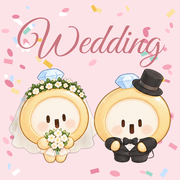
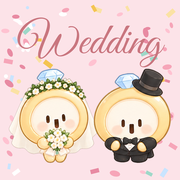
반지링 테두리 깔끔하게 다시 오림 (2배 해상도)
Claude-Session: https://claude.ai/code/session_011nUT2jvPTHRHkT69G7nQeK

diff --git a/assets/index-pwa-9rMMmm5c.js b/assets/index-pwa-9rMMmm5c.js
@@ -1,4 +1,4 @@
-(function(){let e=document.createElement(`link`).relList;if(e&&e.supports&&e.supports(`modulepreload`))return;for(let e of document.querySelectorAll(`link[rel="modulepreload"]`))n(e);new MutationObserver(e=>{for(let t of e)if(t.type===`childList`)for(let e of t.addedNodes)e.tagName===`LINK`&&e.rel===`modulepreload`&&n(e)}).observe(document,{childList:!0,subtree:!0});function t(e){let t={};return e.integrity&&(t.integrity=e.integrity),e.referrerPolicy&&(t.referrerPolicy=e.referrerPolicy),t.credentials=e.crossOrigin===`use-credentials`?`include`:e.crossOrigin===`anonymous`?`omit`:`same-origin`,t}function n(e){if(e.ep)return;e.ep=!0;let n=t(e);fetch(e.href,n)}})();var e={hi:new URL(`hi-DqPFY6NE.webp`,import.meta.url).href,cheer:new URL(`cheer-CB1USPvN.webp`,import.meta.url).href,sleep:new URL(`sleep-Bz2siBO9.webp`,import.meta.url).href,think:new URL(`think-BBrYYGbu.webp`,import.meta.url).href,bride:new URL(`bride-rRt6IPCX.webp`,import.meta.url).href,groom:new URL(`groom-C2p9HqSJ.webp`,import.meta.url).href,wink:new URL(`wink-1lthuHCA.webp`,import.meta.url).href},t=[{id:`mint`,name:`민트`,c:`#17A88A`,d:`#4FD1B2`,soft:`#E3F6F1`,dsoft:`#173A33`},{id:`coral`,name:`코랄`,c:`#EE7240`,d:`#FF9D6E`,soft:`#FDEEE6`,dsoft:`#43281C`},{id:`rose`,name:`로즈`,c:`#D45C7E`,d:`#F08DAA`,soft:`#FBEAEF`,dsoft:`#45263A`},{id:`blue`,name:`블루`,c:`#3E72EC`,d:`#7FA5FF`,soft:`#E8EFFD`,dsoft:`#1E2B4A`},{id:`lavender`,name:`라벤더`,c:`#7C62D6`,d:`#B3A0F5`,soft:`#EFEBFB`,dsoft:`#2E2747`},{id:`black`,name:`블랙`,c:`#26262B`,d:`#EDEDF0`,soft:`#EFEFF1`,dsoft:`#2C2C31`}],n=`wn-accent`;function r(){try{return localStorage.getItem(n)||`mint`}catch{return`mint`}}var i=()=>{let e=document.documentElement.dataset.theme;return e?e===`dark`:matchMedia(`(prefers-color-scheme: dark)`).matches};function a(a=r(),o=!1){let s=t.find(e=>e.id===a)||t[0],c=document.documentElement,l=i(),u=l?s.d:s.c;c.dataset.accent=s.id,c.style.setProperty(`--accent`,u),c.style.setProperty(`--accent-soft`,l?s.dsoft:s.soft),c.style.setProperty(`--on-accent`,l?`#111`:`#fff`),c.style.setProperty(`--grad`,u);for(let t in e)c.style.setProperty(`--m-`+t,`url("${e[t]}")`);if(o)try{localStorage.setItem(n,s.id)}catch{}let d=document.querySelector(`meta[name="theme-color"]:not([media])`)||Object.assign(document.head.appendChild(document.createElement(`meta`)),{name:`theme-color`});return d.content=l?`#121214`:`#FFFFFF`,s}try{matchMedia(`(prefers-color-scheme: dark)`).addEventListener(`change`,()=>a())}catch{}var o=(e,t=`mascot`)=>`<span class="${t} m-${e}" aria-hidden="true"></span>`,s=[`잘했어요!`,`하나 끝!`,`반짝반짝 해냈어요`,`결혼식에 한 걸음 더`,`오늘도 수고했어요`],c;function l(e,t=!1){document.querySelector(`.cheer`)?.remove(),clearTimeout(c);let n=document.createElement(`div`);n.className=`cheer`,n.setAttribute(`role`,`status`),n.innerHTML=`${o(`cheer`)}<b>${e||s[Math.floor(Math.random()*s.length)]}</b>`,document.body.appendChild(n),c=setTimeout(()=>n.remove(),t?2600:1900),g(t),v(t)}var u=(e,t)=>{try{let n=localStorage.getItem(e);return n===null?t:n===`1`}catch{return t}},d={get confetti(){return u(`wn-fx`,!0)},set confetti(e){try{localStorage.setItem(`wn-fx`,e?`1`:`0`)}catch{}},get sound(){return u(`wn-sound`,!0)},set sound(e){try{localStorage.setItem(`wn-sound`,e?`1`:`0`)}catch{}}},f=()=>matchMedia(`(prefers-reduced-motion: reduce)`).matches,p,m,h=[];function g(e=!1){if(!d.confetti||f())return;p||(p=document.createElement(`canvas`),p.className=`fx-canvas`,p.setAttribute(`aria-hidden`,`true`)),p.isConnected||document.body.appendChild(p);let t=Math.min(2,devicePixelRatio||1),n=innerWidth,r=innerHeight;p.width=n*t,p.height=r*t;let i=p.getContext(`2d`);i.setTransform(t,0,0,t,0,0);let a=[`#F6A5B8`,`#FFD1DC`,`#F4C451`,`#FFFFFF`,getComputedStyle(document.documentElement).getPropertyValue(`--accent`).trim()||`#17A88A`,`#C9E4FF`,`#FBE2A4`],o=e?150:70;for(let t=0;t<o;t++){let i=t%2==0,o=i?-10:n+10,s=r*(.72+Math.random()*.12),c=Math.PI/2*-1+(i?1:-1)*(.25+Math.random()*.55),l=(e?15:12)+Math.random()*(e?9:7),u=Math.random()<.38?`petal`:Math.random()<.5?`rect`:`dot`;h.push({x:o,y:s,vx:Math.cos(c)*l,vy:Math.sin(c)*l,r:Math.random()*Math.PI*2,vr:(Math.random()-.5)*.3,s:u===`petal`?7+Math.random()*6:4+Math.random()*4,c:u===`petal`?[`#F6A5B8`,`#FFD1DC`,`#FFC2D1`,`#FFFFFF`][t%4]:a[t%a.length],k:u,t:0,life:110+Math.random()*60,sw:Math.random()*6})}if(m)return;let s=()=>{i.clearRect(0,0,n,r),h=h.filter(e=>e.t<e.life&&e.y<r+40);for(let e of h)e.t++,e.vy+=.32,e.vx*=.985,e.vy*=.985,e.k===`petal`&&(e.vy=Math.min(e.vy,2.2),e.x+=Math.sin((e.t+e.sw*10)/12)*.9),e.x+=e.vx,e.y+=e.vy,e.r+=e.vr,i.save(),i.globalAlpha=Math.min(1,(e.life-e.t)/30),i.translate(e.x,e.y),i.rotate(e.r),i.fillStyle=e.c,e.k===`petal`?(i.beginPath(),i.ellipse(0,0,e.s,e.s*.55,0,0,Math.PI*2),i.fill(),i.fillStyle=`rgba(255,255,255,.5)`,i.beginPath(),i.ellipse(-e.s*.3,-e.s*.1,e.s*.35,e.s*.15,0,0,Math.PI*2),i.fill()):e.k===`rect`?(i.scale(1,Math.cos(e.t/5)),i.fillRect(-e.s/2,-e.s*.8,e.s,e.s*1.6)):(i.beginPath(),i.arc(0,0,e.s/2,0,Math.PI*2),i.fill()),e.c===`#FFFFFF`&&(i.strokeStyle=`rgba(0,0,0,.08)`,i.lineWidth=1,i.stroke()),i.restore();h.length?m=requestAnimationFrame(s):(m=null,i.clearRect(0,0,n,r),p.remove())};m=requestAnimationFrame(s)}var _;function v(e=!1){if(d.sound)try{_=_||new(window.AudioContext||window.webkitAudioContext),_.state===`suspended`&&_.resume();let t=_.currentTime+.01,n=e?[[523,0,.12],[659,.12,.12],[784,.24,.12],[1047,.38,.5]]:[[784,0,.1],[1047,.1,.3]],r=_.createGain();r.gain.value=.12,r.connect(_.destination);for(let[e,i,a]of n)for(let[n,o,s]of[[`triangle`,1,1],[`sine`,2,.3]]){let c=_.createOscillator(),l=_.createGain();c.type=n,c.frequency.value=e*o,l.gain.setValueAtTime(0,t+i),l.gain.linearRampToValueAtTime(s,t+i+.015),l.gain.exponentialRampToValueAtTime(.001,t+i+a+.25),c.connect(l),l.connect(r),c.start(t+i),c.stop(t+i+a+.3)}}catch{}}a();var y=[`cats`,`items`,`events`,`guests`,`teams`,`meta`],ee=`wedding-demo-v1`,b=e=>e==null?e:JSON.parse(JSON.stringify(e)),x=()=>{let e=``;for(let t of crypto.getRandomValues(new Uint8Array(20)))e+=`abcdefghijklmnopqrstuvwxyz0123456789`[t%36];return e},S=(e,t)=>Object.assign(Error(t||e),{code:e}),C=(e,t)=>e+`~`+t;async function w(){let e=window.claude,t=await(e?.use?.(`db`)??null),n=await(e?.use?.(`user`)??null),r=n?await n.id():null,i=t&&r?`cloud`:`local`,a=i===`cloud`?t.collection(`data/users/`+r):null,o=Object.fromEntries(y.map(e=>[e,new Map])),s=Object.fromEntries(y.map(e=>[e,new Set])),c=new Map,l=!1,u=[],d=(e,t)=>{let n=o[e].get(t);return{id:t,exists:!!n,data:()=>n?b(n):void 0,metadata:{fromCache:!1,hasPendingWrites:!1}}},f=e=>{let t=[...o[e].entries()].sort((e,t)=>e[0]<t[0]?-1:1).map(([e,t])=>({id:e,exists:!0,data:()=>b(t)}));return{docs:t,size:t.length,empty:!t.length,docChanges:()=>[]}},p=null,m=new Set;function h(e,t){m.add(e+`/`+(t??``)),!p&&(p=Promise.resolve().then(()=>{p=null;let e=[...m];m.clear();for(let t of new Set(e.map(e=>e.split(`/`)[0])))for(let e of s[t])try{e(f(t))}catch(e){console.error(e)}for(let t of e){let e=c.get(t);if(e){let[n,r]=t.split(`/`);for(let t of e)try{t(d(n,r))}catch(e){console.error(e)}}}}))}let g=()=>{try{localStorage.setItem(ee,JSON.stringify(Object.fromEntries(y.map(e=>[e,Object.fromEntries(o[e])]))))}catch{}},_=()=>{try{let e=JSON.parse(localStorage.getItem(ee)||`{}`);for(let t of y)for(let[n,r]of Object.entries(e[t]||{}))o[t].set(n,r)}catch{}},v=()=>{l=!0,u.splice(0).forEach(e=>e());for(let e of y)h(e)};async function w(e,t,n){if(i!==`cloud`)return g();try{let r=a.doc(C(e,t));n===void 0?await r.delete():await r.set({c:e,i:t,d:n})}catch(e){if(e?.code===`invalid_argument`||e?.code===`not_granted`||e?.code===`revoked`){i=`local`,g();return}throw S(`unavailable`,e?.message)}}async function T(e,t,n){if(!o[e])throw S(`invalid_argument`,`unknown collection `+e);let r=o[e].get(t);n===void 0?o[e].delete(t):o[e].set(t,n),h(e,t);try{await w(e,t,n)}catch(n){throw r===void 0?o[e].delete(t):o[e].set(t,r),h(e,t),n}}let te=(e,t)=>({id:t,path:e+`/`+t,async get(){return l||await new Promise(e=>u.push(e)),d(e,t)},set:n=>T(e,t,b(n)),update:n=>o[e].has(t)?T(e,t,{...o[e].get(t),...b(n)}):Promise.reject(S(`invalid_argument`)),delete:()=>T(e,t,void 0),onSnapshot(n){let r=e+`/`+t;return c.has(r)||c.set(r,new Set),c.get(r).add(n),l&&queueMicrotask(()=>n(d(e,t))),()=>c.get(r)?.delete(n)}}),ne=e=>({path:e,doc:t=>te(e,t||x()),async add(t){let n=x();return await T(e,n,b(t)),te(e,n)},async get(){return l||await new Promise(e=>u.push(e)),f(e)},onSnapshot(t){return s[e].add(t),l&&queueMicrotask(()=>t(f(e))),()=>s[e].delete(t)}});return{get mode(){return i},doc(e){let[t,n]=String(e).split(`/`);return te(t,n)},collection:e=>ne(e),newId:x,snapshotAll:()=>Object.fromEntries(y.map(e=>[e,Object.fromEntries(o[e])])),async bulkUpsert(e){for(let t of e)o[t.coll]?.set(t.id,b(t.data)),h(t.coll,t.id);if(i===`local`)return g();for(let t=0;t<e.length;t+=8)await Promise.all(e.slice(t,t+8).map(e=>w(e.coll,e.id,e.data)))},async clearAll(){let e=[];for(let t of y)for(let n of o[t].keys())e.push([t,n]);for(let e of y)o[e].clear();if(i===`local`)try{localStorage.removeItem(ee)}catch{}else for(let t=0;t<e.length;t+=8)await Promise.all(e.slice(t,t+8).map(([e,t])=>a.doc(C(e,t)).delete().catch(()=>{})))},start(){return new Promise(e=>{if(i===`local`)return _(),v(),e();let t=!0;a.onSnapshot(n=>{for(let e of y)o[e].clear();for(let e of n.docs){let t=e.data();t&&o[t.c]&&o[t.c].set(t.i,t.d)}if(t)t=!1,v(),e();else for(let e of y)h(e)},()=>{i=`local`,_(),t&&(t=!1,v(),e())}),setTimeout(()=>{t&&(t=!1,i=`local`,_(),v(),e())},12e3)})}}}var T=[{id:`hall`,name:`웨딩홀`,desc:`전문 예식장 · 가장 일반적`,search:`웨딩홀`},{id:`hotel`,name:`호텔`,desc:`호텔 연회장 · 격식 있는 분위기`,search:`호텔 웨딩`},{id:`small`,name:`스몰·하우스`,desc:`100명 이하 · 공간 대관`,search:`스몰웨딩`},{id:`outdoor`,name:`야외·가든`,desc:`정원·루프탑 · 날씨 대비 필요`,search:`야외웨딩`},{id:`church`,name:`성당·교회`,desc:`종교 예식 · 피로연 별도`,search:`성당`}],te=[`웨딩홀`,`호텔 웨딩`,`스몰웨딩`,`하우스웨딩`,`야외웨딩`,`성당`,`교회`,`상견례 식당`],ne=[`서울`,`경기`,`인천`,`부산`,`대구`,`광주`,`대전`,`울산`,`세종`,`강원`,`충북`,`충남`,`전북`,`전남`,`경북`,`경남`,`제주`],E={hall:{hall:45,sdm:12,photo:5,honeymoon:20,guestmgmt:5,etc:13},hotel:{hall:58,sdm:10,photo:4,honeymoon:15,guestmgmt:4,etc:9},small:{hall:30,sdm:15,photo:10,honeymoon:25,guestmgmt:5,etc:15},outdoor:{hall:38,sdm:13,photo:9,honeymoon:22,guestmgmt:5,etc:13},church:{hall:35,sdm:14,photo:7,honeymoon:24,guestmgmt:5,etc:15}},D={hall:`웨딩홀`,hotel:`호텔 연회장`,small:`스몰웨딩 공간`,outdoor:`야외 웨딩 장소`,church:`성당·교회 혼배`},O=[{k:`parents`,t:`양가 부모님께 인사`,c:`etc`,off:420},{k:`meet-place`,t:`상견례 식당`,c:`etc`,off:410,v:1},{k:`meet`,t:`상견례`,c:`etc`,off:390,why:`보통 상견례 후 예식장을 잡아요. 식장을 먼저 잡는 커플도 있어요`},{k:`scale`,t:`예산·하객 규모 정하기`,c:`etc`,off:380,why:`예식장 크기와 식대가 여기서 정해져요`},{k:`planner`,t:`웨딩플래너`,c:`etc`,off:370,v:1,planner:!0,why:`플래너 제휴로 스드메·예복·한복 할인을 받을 수 있어요`},{k:`fair`,t:`웨딩박람회 다녀오기`,c:`hall`,off:370,planner:!1,why:`예식장·스드메 견적을 하루에 비교하기 좋아요`},{k:`church-ask`,t:`본당에 혼배 날짜 문의`,c:`hall`,off:400,only:[`church`],why:`인기 날짜는 빨리 차고, 교리 일정도 같이 확인해야 해요`},{k:`tour`,t:`예식장 투어 (3곳 이상)`,c:`hall`,off:350,skip:[`church`],why:`식대·보증인원·대관료·주차를 같은 기준으로 비교해요`},{k:`venue`,t:null,c:`hall`,off:330,v:1,why:`계약서에 식대·보증인원·위약금 조건을 꼭 적어 두세요`},{k:`reception`,t:`피로연 장소`,c:`hall`,off:300,v:1,only:[`church`],why:`혼배 후 식사 장소는 따로 예약해야 해요`},{k:`hotel-guar`,t:`보증인원·식대 협의`,c:`hall`,off:300,only:[`hotel`],why:`호텔은 보증인원이 크고 식대가 높아 협의 폭이 커요`},{k:`catering`,t:`케이터링 업체`,c:`hall`,off:180,v:1,only:[`small`,`outdoor`],why:`공간 대관이면 식사를 따로 준비해야 해요`},{k:`contract-check`,t:`계약서 위약금·추가금 조항 확인`,c:`etc`,off:320,planner:!1,why:`플래너 없이 계약할 땐 직접 챙겨야 해요`},{k:`honeymoon-pick`,t:`신혼여행지 결정`,c:`honeymoon`,off:300},{k:`sdm-quote`,t:`스드메 견적 3곳 비교`,c:`sdm`,off:300,planner:!1,why:`드레스 피팅비·헬퍼비 같은 추가금까지 비교해요`},{k:`sdm`,t:`스드메 패키지`,c:`sdm`,off:270,v:1},{k:`studio`,t:`웨딩촬영 스튜디오`,c:`photo`,off:240,v:1,skip:[`small`]},{k:`snap`,t:`본식 스냅`,c:`hall`,off:240,v:1},{k:`dvd`,t:`본식 DVD`,c:`hall`,off:240,v:1,skip:[`small`]},{k:`house`,t:`신혼집 알아보기`,c:`etc`,off:240},{k:`dress-tour`,t:`드레스 투어`,c:`sdm`,off:210},{k:`flight`,t:`항공권`,c:`honeymoon`,off:180,v:1},{k:`ring`,t:`웨딩링`,c:`etc`,off:180,v:1},{k:`gift-scope`,t:`예물·예단 범위 정하기`,c:`etc`,off:180},{k:`house-contract`,t:`신혼집 계약`,c:`etc`,off:180},{k:`stay`,t:`숙소`,c:`honeymoon`,off:150,v:1},{k:`passport`,t:`여권 유효기간 확인`,c:`honeymoon`,off:150},{k:`hanbok`,t:`혼주 한복`,c:`etc`,off:180,v:1},{k:`class`,t:`혼인 교리 수강`,c:`etc`,off:150,only:[`church`],why:`혼배 전에 이수해야 해요. 본당 일정을 확인하세요`},{k:`suit`,t:`예복`,c:`sdm`,off:180,v:1},{k:`skin`,t:`피부·체형 관리 시작`,c:`sdm`,off:120},{k:`appliance`,t:`신혼 가전·가구`,c:`etc`,off:120,v:1,why:`입주일에 맞춰 배송 날짜를 잡아요. 혼수 박람회·가전 패키지 할인도 비교해 보세요`},{k:`parents-hm`,t:`혼주 헤어·메이크업`,c:`hall`,off:120,v:1},{k:`helper`,t:`본식 헬퍼`,c:`hall`,off:120,v:1},{k:`flower`,t:`꽃장식 상담`,c:`hall`,off:120,v:1,only:[`hotel`,`small`,`outdoor`],why:`웨딩홀과 달리 꽃장식이 별도인 경우가 많아요`},{k:`rain`,t:`우천 대비 플랜 (실내 대체 공간)`,c:`hall`,off:120,only:[`outdoor`],why:`비 예보가 나와도 바로 옮길 수 있게 미리 정해 둬요`},{k:`guests`,t:`하객리스트 작성 및 확정`,c:`guestmgmt`,off:90},{k:`invite`,t:`청첩장`,c:`guestmgmt`,off:90,v:1},{k:`mc`,t:`사회·축가 섭외`,c:`hall`,off:90},{k:`decor`,t:`공간 데코·꽃`,c:`hall`,off:90,v:1,only:[`small`],why:`대관 공간은 분위기를 직접 꾸며야 해요`},{k:`rental`,t:`의자·음향·조명 대여`,c:`hall`,off:90,v:1,only:[`outdoor`,`small`]},{k:`mobile-invite`,t:`모바일 청첩장`,c:`guestmgmt`,off:60,v:1},{k:`second-dress`,t:`2부 드레스`,c:`sdm`,off:60,v:1,why:`대여·구매 중 고르고, 본식 드레스 셀렉 때 같이 보면 편해요`},{k:`video`,t:`식전·식중 영상`,c:`hall`,off:60,v:1,why:`직접 만들거나 업체에 맡겨요. 예식장에 재생 파일 형식·길이를 꼭 확인하세요`},{k:`pyebaek`,t:`폐백 준비`,c:`hall`,off:60,v:1,only:[`hall`,`hotel`],why:`폐백실 이용 여부와 폐백 음식·이바지 업체를 양가와 정해요`},{k:`dress-select`,t:`본식 드레스 셀렉`,c:`sdm`,off:60},{k:`bus`,t:`하객 버스 대절`,c:`guestmgmt`,off:60,v:1,minGuests:150,why:`지방 하객이 많으면 미리 예약해요`},{k:`church-docs`,t:`혼배 서류 준비`,c:`etc`,off:60,only:[`church`],why:`세례증명서 등 필요한 서류를 본당에 확인해요`},{k:`route`,t:`하객 동선·주차 확인`,c:`hall`,off:60,only:[`outdoor`,`small`]},{k:`invite-meet`,t:`청첩장 모임·발송`,c:`guestmgmt`,off:45},{k:`fitting`,t:`드레스 가봉`,c:`sdm`,off:35,why:`본식 드레스를 몸에 맞게 수선해요. 신발·속옷도 그날 신고 가요`},{k:`order`,t:`식순·입장 순서 확정`,c:`hall`,off:30},{k:`bouquet`,t:`부케·부토니에`,c:`hall`,off:30,v:1},{k:`return-gift`,t:`답례품`,c:`guestmgmt`,off:30,v:1},{k:`seat`,t:`하객 좌석 배치도`,c:`guestmgmt`,off:21,only:[`small`,`hotel`]},{k:`insurance`,t:`여행자보험 가입`,c:`honeymoon`,off:21},{k:`exchange`,t:`환전`,c:`honeymoon`,off:14},{k:`final`,t:`예식장 최종 미팅`,c:`hall`,off:14},{k:`bag`,t:`가방순이 섭외`,c:`hall`,off:14,skip:[`small`]},{k:`bus-notice`,t:`하객 버스 탑승 안내`,c:`guestmgmt`,off:7,minGuests:150},{k:`dayof`,t:`당일 준비물 챙기기`,c:`hall`,off:3},{k:`register`,t:`혼인신고`,c:`etc`,off:-14},{k:`thanks`,t:`감사 인사 연락`,c:`guestmgmt`,off:-7}],re=[[`12개월 이상 전`,365,1e9],[`6~12개월 전`,180,364],[`3~6개월 전`,90,179],[`1~3개월 전`,30,89],[`한 달 이내`,7,29],[`마지막 주`,0,6],[`결혼식 이후`,-1e9,-1]],k=e=>(re.find(([,t,n])=>e>=t&&e<=n)||re[0])[0],A=e=>e.getFullYear()+`-`+String(e.getMonth()+1).padStart(2,`0`)+`-`+String(e.getDate()).padStart(2,`0`);function j(e={}){return{style:T.some(t=>t.id===e.style)?e.style:`hall`,planner:!!e.planner,guests:Math.max(0,Math.round(+e.guests||0)),budget:Math.max(0,Math.round(+e.budget||0)),sido:e.sido||``,sigungu:(e.sigungu||``).trim(),date:e.date||``}}function ie(e,t=A(new Date)){let n=j(e),r=[];for(let e of O){if(e.only&&!e.only.includes(n.style)||e.skip&&e.skip.includes(n.style)||e.planner===!0&&!n.planner||e.planner===!1&&n.planner||e.minGuests&&n.guests&&n.guests<e.minGuests)continue;let i=e.k===`venue`?D[n.style]:e.t,a=``,o=!1;if(n.date){let r=new Date(n.date+`T00:00:00`);r.setDate(r.getDate()-e.off),a=A(r),a<t&&e.off>0&&(o=!0,a=t)}r.push({key:e.k,title:i,cat:e.c,vendor:!!e.v,off:e.off,phase:k(e.off),due:a,late:o,why:e.why||``})}return r}function ae(e){let t=j(e);if(!t.budget)return null;let n=E[t.style],r={},i=0,a=Object.keys(n);return a.forEach((e,o)=>{let s=o===a.length-1?t.budget-i:Math.round(t.budget*n[e]/100/1e5)*1e5;r[e]=Math.max(0,s),i+=r[e]}),r}var oe=e=>(T.find(t=>t.id===e)||T[0]).name,se=e=>(T.find(t=>t.id===e)||T[0]).search,ce=e=>[e?.sido,e?.sigungu].filter(Boolean).join(` `);function le(e){return{title:e.title,cat:e.cat,status:`시작 전`,due:e.due,deposit:0,balance:0,payDate:``,note:e.why,balancePaid:!1,rkey:e.key,...e.vendor?{kind:`vendor`}:{}}}var ue=`한국소비자원 참가격 결혼서비스 통계 (2026년 8월 기준)`,M={gangnam:{label:`서울 강남`,meal:88e3,hall:758e4,decor:226e4,sdm:387e4},seoul:{label:`서울`,meal:8e4,hall:63e5,decor:0,sdm:35e5},metro:{label:`경기·인천`,meal:6e4,hall:35e5,decor:0,sdm:298e4},nonmetro:{label:`비수도권`,meal:6e4,hall:274e4,decor:18e4,sdm:284e4}};function de(e){return e?.sido===`서울`?/강남/.test(e.sigungu||``)?`gangnam`:`seoul`:e?.sido===`경기`||e?.sido===`인천`?`metro`:e?.sido?`nonmetro`:`metro`}var N={hall:200,hotel:200,small:70,outdoor:120,church:150};function fe(e){let t=j(e),n=de(t),r=M[n],i=t.guests||N[t.style],a=t.style===`hotel`?119e3:t.style===`small`||t.style===`church`?62e3:r.meal,o=[];o.push({key:`meal`,label:`식대 ${i}명 × ${(a/1e4).toLocaleString(`ko-KR`)}만 원`,amount:i*a,basis:t.style===`hotel`?`코스식 전국 평균`:t.style===`small`||t.style===`church`?`뷔페식 전국 평균`:`${r.label} 1인당 식대 중간값`}),t.style===`church`?o.push({key:`hall`,label:`성당·교회 사용료`,amount:0,basis:`본당·교회마다 달라서 직접 확인해 주세요`}):o.push({key:`hall`,label:t.style===`small`?`공간 대관료`:`대관료`,amount:r.hall,basis:`${r.label} 기준`}),r.decor&&o.push({key:`decor`,label:`기본 장식비`,amount:r.decor,basis:`${r.label} 기준`}),o.push({key:`sdm`,label:`스드메 (스튜디오·드레스·메이크업)`,amount:r.sdm,basis:`${{gangnam:`강남`,seoul:`서울 중간값`,metro:`전국 중간값`,nonmetro:`비수도권`}[n]} 기준`});let s=o.reduce((e,t)=>e+t.amount,0),c=o.filter(e=>e.key!==`sdm`).reduce((e,t)=>e+t.amount,0);return{tier:n,tierLabel:r.label,guests:i,meal:a,lines:o,total:s,budgets:{hall:c,sdm:r.sdm},source:ue,note:`신혼여행·예물·한복·청첩장 등은 공식 통계가 없어 빠져 있어요. 견적을 받으면 예산 탭에서 채워 주세요.`}}var pe=[[`hall`,`예식장`],[`sdm`,`스드메`],[`photo`,`웨딩촬영`],[`honeymoon`,`신혼여행`],[`guestmgmt`,`하객관리`],[`etc`,`기타`],[`extra`,`예외항목`]];function P({p1:e,p2:t,date:n,time:r,place:i,profile:a}){let o=j({...a||{},date:n}),s=ae(o)||fe(o).budgets,c=[];pe.forEach(([e,t],n)=>c.push({coll:`cats`,id:e,data:{name:t,budget:s[e]||0,order:n+1}}));for(let e of ie(o))c.push({coll:`items`,id:`r-`+e.key,data:le(e)});if(n){let e=new Date(n+`T`+(r||`00:00`)+`:00`).toISOString();c.push({coll:`events`,id:`wedding`,data:{name:`결혼식`,at:e,allDay:!r,place:i||``,status:`시작 전`}})}return c.push({coll:`meta`,id:`settings`,data:{p1:e,p2:t,mealPrice:fe(o).meal,minGuests:o.guests||0,profile:{...o,date:void 0}}}),c}var F=`한국소비자원 참가격 결혼서비스 통계 (2026년 8월, 중간값)`,I=[{id:`venue`,match:/웨딩홀|예식장|식장|연회장|혼배|대관/,keys:[`venue`,`tour`],name:`예식장`,price:[`대관료 전국 350만 · 서울 630만 원`,`1인당 식대 전국 6만 · 서울 8만 원`,`최소 보증인원 보통 200명`,`기본 장식비 평균 77만 원`],extras:[[`생화 꽃장식`,`전국 256만 · 서울 500만 원`],[`본식 촬영 (예식장 연계)`,`전국 76만 · 서울 85만 원`],[`본식 원판 사진`,`50만 원`],[`웨딩케이크`,`전국 38만 · 서울 44만 원`],[`보증인원 미달`,`안 온 인원만큼 식대를 그대로 내요`],[`성수기 할증`,`3~6월, 9~12월은 비수기보다 비싼 편이에요`]],tip:`견적 받을 때 '식대 × 보증인원 + 대관료 + 장식비'를 같은 기준으로 맞춰 비교하세요. 생화 장식·본식 도우미가 필수인 곳도 있어요.`},{id:`sdm`,match:/스드메/,keys:[`sdm`,`sdm-quote`],name:`스드메 (스튜디오·드레스·메이크업)`,price:[`스드메 패키지 전국 298만 · 서울 350만 원`,`드메(촬영 빼고) 전국 170만 · 서울 180만 원`],extras:[[`스튜디오 원본 구매`,`전국 30만 · 서울 39만 원`],[`메이크업 얼리스타트`,`14만 원`],[`드레스 퍼스트웨어`,`새 드레스를 처음 입는 옵션, 업체마다 달라요`],[`드레스 헬퍼(이모님)`,`패키지에 빠져 있는 경우가 많아요`],[`피팅비`,`드레스 투어 때 업체당 받는 곳이 있어요`]],tip:`패키지 가격만 보지 말고 원본·수정·헬퍼·얼리스타트가 포함인지 계약서에 적어 두세요.`},{id:`studio`,match:/스튜디오|웨딩촬영/,keys:[`studio`],name:`웨딩촬영 스튜디오`,price:[`스튜디오 기본 전국 139만 · 서울 150만 원`],extras:[[`원본 구매`,`전국 30만 · 서울 39만 원`],[`얼리스타트`,`전국 5만 · 서울 8만 원`],[`수정본·앨범 페이지 추가`,`장당·페이지당 추가금이 붙어요`]],tip:`원본 포함 여부와 수정본 장수를 먼저 확인하세요.`},{id:`dress`,match:/드레스(?! 가봉)|셀렉/,keys:[`dress-tour`,`dress-select`,`second-dress`],name:`드레스`,price:[`드레스 기본 전국 160만 · 서울 172만 원 (본식 1벌 + 촬영용)`],extras:[[`퍼스트웨어`,`새 드레스를 처음 입는 옵션`],[`헬퍼(이모님)`,`본식 날 드레스 도와주는 분, 별도인 경우가 많아요`],[`피팅비`,`투어 때 업체당 받는 곳이 있어요`],[`2부 드레스`,`패키지에 없으면 따로 대여해요`]],tip:`투어 전 피팅비가 있는지, 본식 드레스 등급(라인)별 추가금이 있는지 물어보세요.`},{id:`makeup`,match:/(?<!혼주 헤어·)메이크업/,keys:[],name:`메이크업`,price:[`메이크업 기본 전국 81만 · 서울 96만 원`],extras:[[`얼리스타트`,`이른 아침 시작, 14만 원`],[`혼주·가족 메이크업`,`보통 별도 비용이에요`]],tip:`예식 시간이 이르면 얼리스타트비가 붙어요.`},{id:`snap`,match:/스냅|DVD|영상/,keys:[`snap`,`dvd`,`video`],name:`본식 촬영`,price:[`참고: 예식장 연계 본식 촬영 전국 76만 · 서울 85만 원`],extras:[[`원본 전달`,`포함인지 확인하세요`],[`작가 추가(2인)`,`추가 비용이 붙는 경우가 많아요`],[`출장비`,`예식장이 멀면 붙을 수 있어요`]],tip:`외부 스냅을 쓰면 예식장에 외부 촬영 허용 여부를 먼저 확인하세요.`},{id:`helper`,match:/헬퍼/,keys:[`helper`],name:`본식 헬퍼`,extras:[[`추가 시간`,`2부·폐백까지 하면 시간 추가금이 붙을 수 있어요`],[`교통비`,`따로 받는 곳이 있어요`]],tip:`공식 통계가 없어요. 스드메 패키지 포함 여부부터 확인하세요.`},{id:`invite`,match:/청첩장/,keys:[`invite`,`mobile-invite`],name:`청첩장`,extras:[[`추가 인쇄`,`모자라서 다시 찍으면 단가가 비싸요`],[`봉투·스티커·식권`,`별도인 경우가 있어요`]],tip:`공식 통계가 없어요. 하객 수보다 10~20% 넉넉히 주문하는 커플이 많아요.`},{id:`hanbok`,match:/한복/,keys:[`hanbok`],name:`한복`,extras:[[`대여 vs 맞춤`,`가격 차이가 커요`],[`소품(노리개·신발 등)`,`별도인 경우가 있어요`]],tip:`공식 통계가 없어요. 2~3곳 견적을 비교해 보세요.`},{id:`suit`,match:/예복|양복|턱시도/,keys:[`suit`],name:`예복`,extras:[[`수선·가봉`,`맞춤이면 가봉 횟수를 확인하세요`],[`셔츠·구두·타이`,`패키지 포함인지 확인하세요`]],tip:`공식 통계가 없어요. 대여·맞춤 중 먼저 정하면 비교가 쉬워요.`},{id:`ring`,match:/웨딩링|반지|예물/,keys:[`ring`],name:`웨딩링·예물`,extras:[[`각인·사이즈 조정`,`무료인지 확인하세요`],[`금 시세`,`시세에 따라 가격이 바뀌어요`]],tip:`공식 통계가 없어요.`},{id:`honeymoon`,match:/신혼여행|항공|숙소/,keys:[`flight`,`stay`,`honeymoon-pick`],name:`신혼여행`,extras:[[`유류할증료`,`항공권에 따로 붙어요`],[`현지 비용`,`리조트세·팁·식비를 따로 잡아 두세요`]],tip:`공식 통계가 없어요.`}],me=[[`스드메`,`스튜디오(웨딩촬영)·드레스·메이크업을 묶은 패키지`],[`드메`,`웨딩촬영을 빼고 드레스·메이크업만 묶은 패키지`],[`대관료`,`예식장 홀을 빌리는 비용. 식대와 따로 받아요`],[`식대`,`하객 1인당 식사 비용. 예식 비용에서 가장 큰 부분이에요`],[`보증인원`,`예식장과 약속한 최소 식사 인원. 덜 와도 이 인원만큼 식대를 내요`],[`기본 장식비`,`꽃·조명 등 예식장 기본 연출 비용`],[`생화 장식`,`조화 대신 생화로 꾸미는 옵션. 추가금이 커요`],[`원본`,`웨딩촬영에서 찍은 사진 파일 전체. 따로 사야 하는 경우가 많아요`],[`수정본`,`보정(포토샵)한 사진. 장수가 정해져 있고 추가는 유료예요`],[`원판`,`본식 날 가족·친구와 찍는 단체 사진`],[`얼리스타트`,`이른 아침에 메이크업·촬영을 시작할 때 붙는 추가금`],[`퍼스트웨어`,`아무도 입지 않은 새 드레스를 처음 입는 옵션`],[`헬퍼`,`본식 날 드레스·소품을 도와주는 분. '이모님'이라고도 해요`],[`피팅비`,`드레스 투어 때 입어 보는 데 받는 비용`],[`셀렉`,`여러 드레스 중 본식·촬영에 입을 드레스를 고르는 날`],[`가봉`,`고른 드레스·예복을 몸에 맞게 수선하는 것`],[`혼주`,`신랑·신부의 부모님`],[`폐백`,`예식 후 신부가 시부모님과 가족께 인사드리는 전통 의식`],[`이바지`,`신부 집에서 신랑 집으로 보내는 음식`],[`가방순이`,`본식 날 신부 가방(축의금 등)을 챙겨 주는 친구`],[`부토니에`,`신랑 가슴에 꽂는 작은 꽃 장식`],[`가계약`,`정식 계약 전 소액으로 날짜·조건을 잡아 두는 것. 환불 조건을 꼭 확인하세요`],[`계약금·잔금`,`계약할 때 일부(계약금)를 내고, 나머지(잔금)는 보통 예식 전후에 내요`],[`위약금`,`계약을 취소·변경할 때 내는 돈. 시기별 비율을 계약서에서 확인하세요`],[`성수기`,`결혼식이 몰리는 3~6월, 9~12월. 비수기보다 비싼 편이에요`],[`답례품`,`하객에게 드리는 감사 선물`]];function he(e){let t=`${e.title||``}`,n=I.find(t=>e.rkey&&t.keys.includes(e.rkey))||I.find(e=>e.match.test(t)),r=`${e.title||``} ${e.note||``} ${n?n.extras.map(e=>e[0]).join(` `):``}`,i=me.filter(([e])=>e.split(`·`).some(e=>r.includes(e)));return n||i.length?{p:n,terms:i}:null}var L=e=>String(e??``).replace(/[&<>"]/g,e=>({"&":`&amp;`,"<":`&lt;`,">":`&gt;`,'"':`&quot;`})[e]);function ge(e){let t=he(e);if(!t)return``;let{p:n,terms:r}=t;return`<details class="gd"><summary><span class="gd-ic">💡</span><b>${n?`${L(n.name)} 알아두기`:`용어 알아두기`}</b><span class="gd-more">펼치기</span></summary>
+(function(){let e=document.createElement(`link`).relList;if(e&&e.supports&&e.supports(`modulepreload`))return;for(let e of document.querySelectorAll(`link[rel="modulepreload"]`))n(e);new MutationObserver(e=>{for(let t of e)if(t.type===`childList`)for(let e of t.addedNodes)e.tagName===`LINK`&&e.rel===`modulepreload`&&n(e)}).observe(document,{childList:!0,subtree:!0});function t(e){let t={};return e.integrity&&(t.integrity=e.integrity),e.referrerPolicy&&(t.referrerPolicy=e.referrerPolicy),t.credentials=e.crossOrigin===`use-credentials`?`include`:e.crossOrigin===`anonymous`?`omit`:`same-origin`,t}function n(e){if(e.ep)return;e.ep=!0;let n=t(e);fetch(e.href,n)}})();var e={hi:new URL(`hi-C0L3GarV.webp`,import.meta.url).href,cheer:new URL(`cheer-CD63wie2.webp`,import.meta.url).href,sleep:new URL(`sleep-D71vsldj.webp`,import.meta.url).href,think:new URL(`think-BoRCwsyP.webp`,import.meta.url).href,bride:new URL(`bride-D_coJ25t.webp`,import.meta.url).href,groom:new URL(`groom-CFcrKK7L.webp`,import.meta.url).href,wink:new URL(`wink-CVKq8aYZ.webp`,import.meta.url).href},t=[{id:`mint`,name:`민트`,c:`#17A88A`,d:`#4FD1B2`,soft:`#E3F6F1`,dsoft:`#173A33`},{id:`coral`,name:`코랄`,c:`#EE7240`,d:`#FF9D6E`,soft:`#FDEEE6`,dsoft:`#43281C`},{id:`rose`,name:`로즈`,c:`#D45C7E`,d:`#F08DAA`,soft:`#FBEAEF`,dsoft:`#45263A`},{id:`blue`,name:`블루`,c:`#3E72EC`,d:`#7FA5FF`,soft:`#E8EFFD`,dsoft:`#1E2B4A`},{id:`lavender`,name:`라벤더`,c:`#7C62D6`,d:`#B3A0F5`,soft:`#EFEBFB`,dsoft:`#2E2747`},{id:`black`,name:`블랙`,c:`#26262B`,d:`#EDEDF0`,soft:`#EFEFF1`,dsoft:`#2C2C31`}],n=`wn-accent`;function r(){try{return localStorage.getItem(n)||`mint`}catch{return`mint`}}var i=()=>{let e=document.documentElement.dataset.theme;return e?e===`dark`:matchMedia(`(prefers-color-scheme: dark)`).matches};function a(a=r(),o=!1){let s=t.find(e=>e.id===a)||t[0],c=document.documentElement,l=i(),u=l?s.d:s.c;c.dataset.accent=s.id,c.style.setProperty(`--accent`,u),c.style.setProperty(`--accent-soft`,l?s.dsoft:s.soft),c.style.setProperty(`--on-accent`,l?`#111`:`#fff`),c.style.setProperty(`--grad`,u);for(let t in e)c.style.setProperty(`--m-`+t,`url("${e[t]}")`);if(o)try{localStorage.setItem(n,s.id)}catch{}let d=document.querySelector(`meta[name="theme-color"]:not([media])`)||Object.assign(document.head.appendChild(document.createElement(`meta`)),{name:`theme-color`});return d.content=l?`#121214`:`#FFFFFF`,s}try{matchMedia(`(prefers-color-scheme: dark)`).addEventListener(`change`,()=>a())}catch{}var o=(e,t=`mascot`)=>`<span class="${t} m-${e}" aria-hidden="true"></span>`,s=[`잘했어요!`,`하나 끝!`,`반짝반짝 해냈어요`,`결혼식에 한 걸음 더`,`오늘도 수고했어요`],c;function l(e,t=!1){document.querySelector(`.cheer`)?.remove(),clearTimeout(c);let n=document.createElement(`div`);n.className=`cheer`,n.setAttribute(`role`,`status`),n.innerHTML=`${o(`cheer`)}<b>${e||s[Math.floor(Math.random()*s.length)]}</b>`,document.body.appendChild(n),c=setTimeout(()=>n.remove(),t?2600:1900),g(t),v(t)}var u=(e,t)=>{try{let n=localStorage.getItem(e);return n===null?t:n===`1`}catch{return t}},d={get confetti(){return u(`wn-fx`,!0)},set confetti(e){try{localStorage.setItem(`wn-fx`,e?`1`:`0`)}catch{}},get sound(){return u(`wn-sound`,!0)},set sound(e){try{localStorage.setItem(`wn-sound`,e?`1`:`0`)}catch{}}},f=()=>matchMedia(`(prefers-reduced-motion: reduce)`).matches,p,m,h=[];function g(e=!1){if(!d.confetti||f())return;p||(p=document.createElement(`canvas`),p.className=`fx-canvas`,p.setAttribute(`aria-hidden`,`true`)),p.isConnected||document.body.appendChild(p);let t=Math.min(2,devicePixelRatio||1),n=innerWidth,r=innerHeight;p.width=n*t,p.height=r*t;let i=p.getContext(`2d`);i.setTransform(t,0,0,t,0,0);let a=[`#F6A5B8`,`#FFD1DC`,`#F4C451`,`#FFFFFF`,getComputedStyle(document.documentElement).getPropertyValue(`--accent`).trim()||`#17A88A`,`#C9E4FF`,`#FBE2A4`],o=e?150:70;for(let t=0;t<o;t++){let i=t%2==0,o=i?-10:n+10,s=r*(.72+Math.random()*.12),c=Math.PI/2*-1+(i?1:-1)*(.25+Math.random()*.55),l=(e?15:12)+Math.random()*(e?9:7),u=Math.random()<.38?`petal`:Math.random()<.5?`rect`:`dot`;h.push({x:o,y:s,vx:Math.cos(c)*l,vy:Math.sin(c)*l,r:Math.random()*Math.PI*2,vr:(Math.random()-.5)*.3,s:u===`petal`?7+Math.random()*6:4+Math.random()*4,c:u===`petal`?[`#F6A5B8`,`#FFD1DC`,`#FFC2D1`,`#FFFFFF`][t%4]:a[t%a.length],k:u,t:0,life:110+Math.random()*60,sw:Math.random()*6})}if(m)return;let s=()=>{i.clearRect(0,0,n,r),h=h.filter(e=>e.t<e.life&&e.y<r+40);for(let e of h)e.t++,e.vy+=.32,e.vx*=.985,e.vy*=.985,e.k===`petal`&&(e.vy=Math.min(e.vy,2.2),e.x+=Math.sin((e.t+e.sw*10)/12)*.9),e.x+=e.vx,e.y+=e.vy,e.r+=e.vr,i.save(),i.globalAlpha=Math.min(1,(e.life-e.t)/30),i.translate(e.x,e.y),i.rotate(e.r),i.fillStyle=e.c,e.k===`petal`?(i.beginPath(),i.ellipse(0,0,e.s,e.s*.55,0,0,Math.PI*2),i.fill(),i.fillStyle=`rgba(255,255,255,.5)`,i.beginPath(),i.ellipse(-e.s*.3,-e.s*.1,e.s*.35,e.s*.15,0,0,Math.PI*2),i.fill()):e.k===`rect`?(i.scale(1,Math.cos(e.t/5)),i.fillRect(-e.s/2,-e.s*.8,e.s,e.s*1.6)):(i.beginPath(),i.arc(0,0,e.s/2,0,Math.PI*2),i.fill()),e.c===`#FFFFFF`&&(i.strokeStyle=`rgba(0,0,0,.08)`,i.lineWidth=1,i.stroke()),i.restore();h.length?m=requestAnimationFrame(s):(m=null,i.clearRect(0,0,n,r),p.remove())};m=requestAnimationFrame(s)}var _;function v(e=!1){if(d.sound)try{_=_||new(window.AudioContext||window.webkitAudioContext),_.state===`suspended`&&_.resume();let t=_.currentTime+.01,n=e?[[523,0,.12],[659,.12,.12],[784,.24,.12],[1047,.38,.5]]:[[784,0,.1],[1047,.1,.3]],r=_.createGain();r.gain.value=.12,r.connect(_.destination);for(let[e,i,a]of n)for(let[n,o,s]of[[`triangle`,1,1],[`sine`,2,.3]]){let c=_.createOscillator(),l=_.createGain();c.type=n,c.frequency.value=e*o,l.gain.setValueAtTime(0,t+i),l.gain.linearRampToValueAtTime(s,t+i+.015),l.gain.exponentialRampToValueAtTime(.001,t+i+a+.25),c.connect(l),l.connect(r),c.start(t+i),c.stop(t+i+a+.3)}}catch{}}a();var y=[`cats`,`items`,`events`,`guests`,`teams`,`meta`],ee=`wedding-demo-v1`,b=e=>e==null?e:JSON.parse(JSON.stringify(e)),x=()=>{let e=``;for(let t of crypto.getRandomValues(new Uint8Array(20)))e+=`abcdefghijklmnopqrstuvwxyz0123456789`[t%36];return e},S=(e,t)=>Object.assign(Error(t||e),{code:e}),C=(e,t)=>e+`~`+t;async function w(){let e=window.claude,t=await(e?.use?.(`db`)??null),n=await(e?.use?.(`user`)??null),r=n?await n.id():null,i=t&&r?`cloud`:`local`,a=i===`cloud`?t.collection(`data/users/`+r):null,o=Object.fromEntries(y.map(e=>[e,new Map])),s=Object.fromEntries(y.map(e=>[e,new Set])),c=new Map,l=!1,u=[],d=(e,t)=>{let n=o[e].get(t);return{id:t,exists:!!n,data:()=>n?b(n):void 0,metadata:{fromCache:!1,hasPendingWrites:!1}}},f=e=>{let t=[...o[e].entries()].sort((e,t)=>e[0]<t[0]?-1:1).map(([e,t])=>({id:e,exists:!0,data:()=>b(t)}));return{docs:t,size:t.length,empty:!t.length,docChanges:()=>[]}},p=null,m=new Set;function h(e,t){m.add(e+`/`+(t??``)),!p&&(p=Promise.resolve().then(()=>{p=null;let e=[...m];m.clear();for(let t of new Set(e.map(e=>e.split(`/`)[0])))for(let e of s[t])try{e(f(t))}catch(e){console.error(e)}for(let t of e){let e=c.get(t);if(e){let[n,r]=t.split(`/`);for(let t of e)try{t(d(n,r))}catch(e){console.error(e)}}}}))}let g=()=>{try{localStorage.setItem(ee,JSON.stringify(Object.fromEntries(y.map(e=>[e,Object.fromEntries(o[e])]))))}catch{}},_=()=>{try{let e=JSON.parse(localStorage.getItem(ee)||`{}`);for(let t of y)for(let[n,r]of Object.entries(e[t]||{}))o[t].set(n,r)}catch{}},v=()=>{l=!0,u.splice(0).forEach(e=>e());for(let e of y)h(e)};async function w(e,t,n){if(i!==`cloud`)return g();try{let r=a.doc(C(e,t));n===void 0?await r.delete():await r.set({c:e,i:t,d:n})}catch(e){if(e?.code===`invalid_argument`||e?.code===`not_granted`||e?.code===`revoked`){i=`local`,g();return}throw S(`unavailable`,e?.message)}}async function T(e,t,n){if(!o[e])throw S(`invalid_argument`,`unknown collection `+e);let r=o[e].get(t);n===void 0?o[e].delete(t):o[e].set(t,n),h(e,t);try{await w(e,t,n)}catch(n){throw r===void 0?o[e].delete(t):o[e].set(t,r),h(e,t),n}}let te=(e,t)=>({id:t,path:e+`/`+t,async get(){return l||await new Promise(e=>u.push(e)),d(e,t)},set:n=>T(e,t,b(n)),update:n=>o[e].has(t)?T(e,t,{...o[e].get(t),...b(n)}):Promise.reject(S(`invalid_argument`)),delete:()=>T(e,t,void 0),onSnapshot(n){let r=e+`/`+t;return c.has(r)||c.set(r,new Set),c.get(r).add(n),l&&queueMicrotask(()=>n(d(e,t))),()=>c.get(r)?.delete(n)}}),ne=e=>({path:e,doc:t=>te(e,t||x()),async add(t){let n=x();return await T(e,n,b(t)),te(e,n)},async get(){return l||await new Promise(e=>u.push(e)),f(e)},onSnapshot(t){return s[e].add(t),l&&queueMicrotask(()=>t(f(e))),()=>s[e].delete(t)}});return{get mode(){return i},doc(e){let[t,n]=String(e).split(`/`);return te(t,n)},collection:e=>ne(e),newId:x,snapshotAll:()=>Object.fromEntries(y.map(e=>[e,Object.fromEntries(o[e])])),async bulkUpsert(e){for(let t of e)o[t.coll]?.set(t.id,b(t.data)),h(t.coll,t.id);if(i===`local`)return g();for(let t=0;t<e.length;t+=8)await Promise.all(e.slice(t,t+8).map(e=>w(e.coll,e.id,e.data)))},async clearAll(){let e=[];for(let t of y)for(let n of o[t].keys())e.push([t,n]);for(let e of y)o[e].clear();if(i===`local`)try{localStorage.removeItem(ee)}catch{}else for(let t=0;t<e.length;t+=8)await Promise.all(e.slice(t,t+8).map(([e,t])=>a.doc(C(e,t)).delete().catch(()=>{})))},start(){return new Promise(e=>{if(i===`local`)return _(),v(),e();let t=!0;a.onSnapshot(n=>{for(let e of y)o[e].clear();for(let e of n.docs){let t=e.data();t&&o[t.c]&&o[t.c].set(t.i,t.d)}if(t)t=!1,v(),e();else for(let e of y)h(e)},()=>{i=`local`,_(),t&&(t=!1,v(),e())}),setTimeout(()=>{t&&(t=!1,i=`local`,_(),v(),e())},12e3)})}}}var T=[{id:`hall`,name:`웨딩홀`,desc:`전문 예식장 · 가장 일반적`,search:`웨딩홀`},{id:`hotel`,name:`호텔`,desc:`호텔 연회장 · 격식 있는 분위기`,search:`호텔 웨딩`},{id:`small`,name:`스몰·하우스`,desc:`100명 이하 · 공간 대관`,search:`스몰웨딩`},{id:`outdoor`,name:`야외·가든`,desc:`정원·루프탑 · 날씨 대비 필요`,search:`야외웨딩`},{id:`church`,name:`성당·교회`,desc:`종교 예식 · 피로연 별도`,search:`성당`}],te=[`웨딩홀`,`호텔 웨딩`,`스몰웨딩`,`하우스웨딩`,`야외웨딩`,`성당`,`교회`,`상견례 식당`],ne=[`서울`,`경기`,`인천`,`부산`,`대구`,`광주`,`대전`,`울산`,`세종`,`강원`,`충북`,`충남`,`전북`,`전남`,`경북`,`경남`,`제주`],E={hall:{hall:45,sdm:12,photo:5,honeymoon:20,guestmgmt:5,etc:13},hotel:{hall:58,sdm:10,photo:4,honeymoon:15,guestmgmt:4,etc:9},small:{hall:30,sdm:15,photo:10,honeymoon:25,guestmgmt:5,etc:15},outdoor:{hall:38,sdm:13,photo:9,honeymoon:22,guestmgmt:5,etc:13},church:{hall:35,sdm:14,photo:7,honeymoon:24,guestmgmt:5,etc:15}},D={hall:`웨딩홀`,hotel:`호텔 연회장`,small:`스몰웨딩 공간`,outdoor:`야외 웨딩 장소`,church:`성당·교회 혼배`},O=[{k:`parents`,t:`양가 부모님께 인사`,c:`etc`,off:420},{k:`meet-place`,t:`상견례 식당`,c:`etc`,off:410,v:1},{k:`meet`,t:`상견례`,c:`etc`,off:390,why:`보통 상견례 후 예식장을 잡아요. 식장을 먼저 잡는 커플도 있어요`},{k:`scale`,t:`예산·하객 규모 정하기`,c:`etc`,off:380,why:`예식장 크기와 식대가 여기서 정해져요`},{k:`planner`,t:`웨딩플래너`,c:`etc`,off:370,v:1,planner:!0,why:`플래너 제휴로 스드메·예복·한복 할인을 받을 수 있어요`},{k:`fair`,t:`웨딩박람회 다녀오기`,c:`hall`,off:370,planner:!1,why:`예식장·스드메 견적을 하루에 비교하기 좋아요`},{k:`church-ask`,t:`본당에 혼배 날짜 문의`,c:`hall`,off:400,only:[`church`],why:`인기 날짜는 빨리 차고, 교리 일정도 같이 확인해야 해요`},{k:`tour`,t:`예식장 투어 (3곳 이상)`,c:`hall`,off:350,skip:[`church`],why:`식대·보증인원·대관료·주차를 같은 기준으로 비교해요`},{k:`venue`,t:null,c:`hall`,off:330,v:1,why:`계약서에 식대·보증인원·위약금 조건을 꼭 적어 두세요`},{k:`reception`,t:`피로연 장소`,c:`hall`,off:300,v:1,only:[`church`],why:`혼배 후 식사 장소는 따로 예약해야 해요`},{k:`hotel-guar`,t:`보증인원·식대 협의`,c:`hall`,off:300,only:[`hotel`],why:`호텔은 보증인원이 크고 식대가 높아 협의 폭이 커요`},{k:`catering`,t:`케이터링 업체`,c:`hall`,off:180,v:1,only:[`small`,`outdoor`],why:`공간 대관이면 식사를 따로 준비해야 해요`},{k:`contract-check`,t:`계약서 위약금·추가금 조항 확인`,c:`etc`,off:320,planner:!1,why:`플래너 없이 계약할 땐 직접 챙겨야 해요`},{k:`honeymoon-pick`,t:`신혼여행지 결정`,c:`honeymoon`,off:300},{k:`sdm-quote`,t:`스드메 견적 3곳 비교`,c:`sdm`,off:300,planner:!1,why:`드레스 피팅비·헬퍼비 같은 추가금까지 비교해요`},{k:`sdm`,t:`스드메 패키지`,c:`sdm`,off:270,v:1},{k:`studio`,t:`웨딩촬영 스튜디오`,c:`photo`,off:240,v:1,skip:[`small`]},{k:`snap`,t:`본식 스냅`,c:`hall`,off:240,v:1},{k:`dvd`,t:`본식 DVD`,c:`hall`,off:240,v:1,skip:[`small`]},{k:`house`,t:`신혼집 알아보기`,c:`etc`,off:240},{k:`dress-tour`,t:`드레스 투어`,c:`sdm`,off:210},{k:`flight`,t:`항공권`,c:`honeymoon`,off:180,v:1},{k:`ring`,t:`웨딩링`,c:`etc`,off:180,v:1},{k:`gift-scope`,t:`예물·예단 범위 정하기`,c:`etc`,off:180},{k:`house-contract`,t:`신혼집 계약`,c:`etc`,off:180},{k:`stay`,t:`숙소`,c:`honeymoon`,off:150,v:1},{k:`passport`,t:`여권 유효기간 확인`,c:`honeymoon`,off:150},{k:`hanbok`,t:`혼주 한복`,c:`etc`,off:180,v:1},{k:`class`,t:`혼인 교리 수강`,c:`etc`,off:150,only:[`church`],why:`혼배 전에 이수해야 해요. 본당 일정을 확인하세요`},{k:`suit`,t:`예복`,c:`sdm`,off:180,v:1},{k:`skin`,t:`피부·체형 관리 시작`,c:`sdm`,off:120},{k:`appliance`,t:`신혼 가전·가구`,c:`etc`,off:120,v:1,why:`입주일에 맞춰 배송 날짜를 잡아요. 혼수 박람회·가전 패키지 할인도 비교해 보세요`},{k:`parents-hm`,t:`혼주 헤어·메이크업`,c:`hall`,off:120,v:1},{k:`helper`,t:`본식 헬퍼`,c:`hall`,off:120,v:1},{k:`flower`,t:`꽃장식 상담`,c:`hall`,off:120,v:1,only:[`hotel`,`small`,`outdoor`],why:`웨딩홀과 달리 꽃장식이 별도인 경우가 많아요`},{k:`rain`,t:`우천 대비 플랜 (실내 대체 공간)`,c:`hall`,off:120,only:[`outdoor`],why:`비 예보가 나와도 바로 옮길 수 있게 미리 정해 둬요`},{k:`guests`,t:`하객리스트 작성 및 확정`,c:`guestmgmt`,off:90},{k:`invite`,t:`청첩장`,c:`guestmgmt`,off:90,v:1},{k:`mc`,t:`사회·축가 섭외`,c:`hall`,off:90},{k:`decor`,t:`공간 데코·꽃`,c:`hall`,off:90,v:1,only:[`small`],why:`대관 공간은 분위기를 직접 꾸며야 해요`},{k:`rental`,t:`의자·음향·조명 대여`,c:`hall`,off:90,v:1,only:[`outdoor`,`small`]},{k:`mobile-invite`,t:`모바일 청첩장`,c:`guestmgmt`,off:60,v:1},{k:`second-dress`,t:`2부 드레스`,c:`sdm`,off:60,v:1,why:`대여·구매 중 고르고, 본식 드레스 셀렉 때 같이 보면 편해요`},{k:`video`,t:`식전·식중 영상`,c:`hall`,off:60,v:1,why:`직접 만들거나 업체에 맡겨요. 예식장에 재생 파일 형식·길이를 꼭 확인하세요`},{k:`pyebaek`,t:`폐백 준비`,c:`hall`,off:60,v:1,only:[`hall`,`hotel`],why:`폐백실 이용 여부와 폐백 음식·이바지 업체를 양가와 정해요`},{k:`dress-select`,t:`본식 드레스 셀렉`,c:`sdm`,off:60},{k:`bus`,t:`하객 버스 대절`,c:`guestmgmt`,off:60,v:1,minGuests:150,why:`지방 하객이 많으면 미리 예약해요`},{k:`church-docs`,t:`혼배 서류 준비`,c:`etc`,off:60,only:[`church`],why:`세례증명서 등 필요한 서류를 본당에 확인해요`},{k:`route`,t:`하객 동선·주차 확인`,c:`hall`,off:60,only:[`outdoor`,`small`]},{k:`invite-meet`,t:`청첩장 모임·발송`,c:`guestmgmt`,off:45},{k:`fitting`,t:`드레스 가봉`,c:`sdm`,off:35,why:`본식 드레스를 몸에 맞게 수선해요. 신발·속옷도 그날 신고 가요`},{k:`order`,t:`식순·입장 순서 확정`,c:`hall`,off:30},{k:`bouquet`,t:`부케·부토니에`,c:`hall`,off:30,v:1},{k:`return-gift`,t:`답례품`,c:`guestmgmt`,off:30,v:1},{k:`seat`,t:`하객 좌석 배치도`,c:`guestmgmt`,off:21,only:[`small`,`hotel`]},{k:`insurance`,t:`여행자보험 가입`,c:`honeymoon`,off:21},{k:`exchange`,t:`환전`,c:`honeymoon`,off:14},{k:`final`,t:`예식장 최종 미팅`,c:`hall`,off:14},{k:`bag`,t:`가방순이 섭외`,c:`hall`,off:14,skip:[`small`]},{k:`bus-notice`,t:`하객 버스 탑승 안내`,c:`guestmgmt`,off:7,minGuests:150},{k:`dayof`,t:`당일 준비물 챙기기`,c:`hall`,off:3},{k:`register`,t:`혼인신고`,c:`etc`,off:-14},{k:`thanks`,t:`감사 인사 연락`,c:`guestmgmt`,off:-7}],re=[[`12개월 이상 전`,365,1e9],[`6~12개월 전`,180,364],[`3~6개월 전`,90,179],[`1~3개월 전`,30,89],[`한 달 이내`,7,29],[`마지막 주`,0,6],[`결혼식 이후`,-1e9,-1]],k=e=>(re.find(([,t,n])=>e>=t&&e<=n)||re[0])[0],A=e=>e.getFullYear()+`-`+String(e.getMonth()+1).padStart(2,`0`)+`-`+String(e.getDate()).padStart(2,`0`);function j(e={}){return{style:T.some(t=>t.id===e.style)?e.style:`hall`,planner:!!e.planner,guests:Math.max(0,Math.round(+e.guests||0)),budget:Math.max(0,Math.round(+e.budget||0)),sido:e.sido||``,sigungu:(e.sigungu||``).trim(),date:e.date||``}}function ie(e,t=A(new Date)){let n=j(e),r=[];for(let e of O){if(e.only&&!e.only.includes(n.style)||e.skip&&e.skip.includes(n.style)||e.planner===!0&&!n.planner||e.planner===!1&&n.planner||e.minGuests&&n.guests&&n.guests<e.minGuests)continue;let i=e.k===`venue`?D[n.style]:e.t,a=``,o=!1;if(n.date){let r=new Date(n.date+`T00:00:00`);r.setDate(r.getDate()-e.off),a=A(r),a<t&&e.off>0&&(o=!0,a=t)}r.push({key:e.k,title:i,cat:e.c,vendor:!!e.v,off:e.off,phase:k(e.off),due:a,late:o,why:e.why||``})}return r}function ae(e){let t=j(e);if(!t.budget)return null;let n=E[t.style],r={},i=0,a=Object.keys(n);return a.forEach((e,o)=>{let s=o===a.length-1?t.budget-i:Math.round(t.budget*n[e]/100/1e5)*1e5;r[e]=Math.max(0,s),i+=r[e]}),r}var oe=e=>(T.find(t=>t.id===e)||T[0]).name,se=e=>(T.find(t=>t.id===e)||T[0]).search,ce=e=>[e?.sido,e?.sigungu].filter(Boolean).join(` `);function le(e){return{title:e.title,cat:e.cat,status:`시작 전`,due:e.due,deposit:0,balance:0,payDate:``,note:e.why,balancePaid:!1,rkey:e.key,...e.vendor?{kind:`vendor`}:{}}}var ue=`한국소비자원 참가격 결혼서비스 통계 (2026년 8월 기준)`,M={gangnam:{label:`서울 강남`,meal:88e3,hall:758e4,decor:226e4,sdm:387e4},seoul:{label:`서울`,meal:8e4,hall:63e5,decor:0,sdm:35e5},metro:{label:`경기·인천`,meal:6e4,hall:35e5,decor:0,sdm:298e4},nonmetro:{label:`비수도권`,meal:6e4,hall:274e4,decor:18e4,sdm:284e4}};function de(e){return e?.sido===`서울`?/강남/.test(e.sigungu||``)?`gangnam`:`seoul`:e?.sido===`경기`||e?.sido===`인천`?`metro`:e?.sido?`nonmetro`:`metro`}var N={hall:200,hotel:200,small:70,outdoor:120,church:150};function fe(e){let t=j(e),n=de(t),r=M[n],i=t.guests||N[t.style],a=t.style===`hotel`?119e3:t.style===`small`||t.style===`church`?62e3:r.meal,o=[];o.push({key:`meal`,label:`식대 ${i}명 × ${(a/1e4).toLocaleString(`ko-KR`)}만 원`,amount:i*a,basis:t.style===`hotel`?`코스식 전국 평균`:t.style===`small`||t.style===`church`?`뷔페식 전국 평균`:`${r.label} 1인당 식대 중간값`}),t.style===`church`?o.push({key:`hall`,label:`성당·교회 사용료`,amount:0,basis:`본당·교회마다 달라서 직접 확인해 주세요`}):o.push({key:`hall`,label:t.style===`small`?`공간 대관료`:`대관료`,amount:r.hall,basis:`${r.label} 기준`}),r.decor&&o.push({key:`decor`,label:`기본 장식비`,amount:r.decor,basis:`${r.label} 기준`}),o.push({key:`sdm`,label:`스드메 (스튜디오·드레스·메이크업)`,amount:r.sdm,basis:`${{gangnam:`강남`,seoul:`서울 중간값`,metro:`전국 중간값`,nonmetro:`비수도권`}[n]} 기준`});let s=o.reduce((e,t)=>e+t.amount,0),c=o.filter(e=>e.key!==`sdm`).reduce((e,t)=>e+t.amount,0);return{tier:n,tierLabel:r.label,guests:i,meal:a,lines:o,total:s,budgets:{hall:c,sdm:r.sdm},source:ue,note:`신혼여행·예물·한복·청첩장 등은 공식 통계가 없어 빠져 있어요. 견적을 받으면 예산 탭에서 채워 주세요.`}}var pe=[[`hall`,`예식장`],[`sdm`,`스드메`],[`photo`,`웨딩촬영`],[`honeymoon`,`신혼여행`],[`guestmgmt`,`하객관리`],[`etc`,`기타`],[`extra`,`예외항목`]];function P({p1:e,p2:t,date:n,time:r,place:i,profile:a}){let o=j({...a||{},date:n}),s=ae(o)||fe(o).budgets,c=[];pe.forEach(([e,t],n)=>c.push({coll:`cats`,id:e,data:{name:t,budget:s[e]||0,order:n+1}}));for(let e of ie(o))c.push({coll:`items`,id:`r-`+e.key,data:le(e)});if(n){let e=new Date(n+`T`+(r||`00:00`)+`:00`).toISOString();c.push({coll:`events`,id:`wedding`,data:{name:`결혼식`,at:e,allDay:!r,place:i||``,status:`시작 전`}})}return c.push({coll:`meta`,id:`settings`,data:{p1:e,p2:t,mealPrice:fe(o).meal,minGuests:o.guests||0,profile:{...o,date:void 0}}}),c}var F=`한국소비자원 참가격 결혼서비스 통계 (2026년 8월, 중간값)`,I=[{id:`venue`,match:/웨딩홀|예식장|식장|연회장|혼배|대관/,keys:[`venue`,`tour`],name:`예식장`,price:[`대관료 전국 350만 · 서울 630만 원`,`1인당 식대 전국 6만 · 서울 8만 원`,`최소 보증인원 보통 200명`,`기본 장식비 평균 77만 원`],extras:[[`생화 꽃장식`,`전국 256만 · 서울 500만 원`],[`본식 촬영 (예식장 연계)`,`전국 76만 · 서울 85만 원`],[`본식 원판 사진`,`50만 원`],[`웨딩케이크`,`전국 38만 · 서울 44만 원`],[`보증인원 미달`,`안 온 인원만큼 식대를 그대로 내요`],[`성수기 할증`,`3~6월, 9~12월은 비수기보다 비싼 편이에요`]],tip:`견적 받을 때 '식대 × 보증인원 + 대관료 + 장식비'를 같은 기준으로 맞춰 비교하세요. 생화 장식·본식 도우미가 필수인 곳도 있어요.`},{id:`sdm`,match:/스드메/,keys:[`sdm`,`sdm-quote`],name:`스드메 (스튜디오·드레스·메이크업)`,price:[`스드메 패키지 전국 298만 · 서울 350만 원`,`드메(촬영 빼고) 전국 170만 · 서울 180만 원`],extras:[[`스튜디오 원본 구매`,`전국 30만 · 서울 39만 원`],[`메이크업 얼리스타트`,`14만 원`],[`드레스 퍼스트웨어`,`새 드레스를 처음 입는 옵션, 업체마다 달라요`],[`드레스 헬퍼(이모님)`,`패키지에 빠져 있는 경우가 많아요`],[`피팅비`,`드레스 투어 때 업체당 받는 곳이 있어요`]],tip:`패키지 가격만 보지 말고 원본·수정·헬퍼·얼리스타트가 포함인지 계약서에 적어 두세요.`},{id:`studio`,match:/스튜디오|웨딩촬영/,keys:[`studio`],name:`웨딩촬영 스튜디오`,price:[`스튜디오 기본 전국 139만 · 서울 150만 원`],extras:[[`원본 구매`,`전국 30만 · 서울 39만 원`],[`얼리스타트`,`전국 5만 · 서울 8만 원`],[`수정본·앨범 페이지 추가`,`장당·페이지당 추가금이 붙어요`]],tip:`원본 포함 여부와 수정본 장수를 먼저 확인하세요.`},{id:`dress`,match:/드레스(?! 가봉)|셀렉/,keys:[`dress-tour`,`dress-select`,`second-dress`],name:`드레스`,price:[`드레스 기본 전국 160만 · 서울 172만 원 (본식 1벌 + 촬영용)`],extras:[[`퍼스트웨어`,`새 드레스를 처음 입는 옵션`],[`헬퍼(이모님)`,`본식 날 드레스 도와주는 분, 별도인 경우가 많아요`],[`피팅비`,`투어 때 업체당 받는 곳이 있어요`],[`2부 드레스`,`패키지에 없으면 따로 대여해요`]],tip:`투어 전 피팅비가 있는지, 본식 드레스 등급(라인)별 추가금이 있는지 물어보세요.`},{id:`makeup`,match:/(?<!혼주 헤어·)메이크업/,keys:[],name:`메이크업`,price:[`메이크업 기본 전국 81만 · 서울 96만 원`],extras:[[`얼리스타트`,`이른 아침 시작, 14만 원`],[`혼주·가족 메이크업`,`보통 별도 비용이에요`]],tip:`예식 시간이 이르면 얼리스타트비가 붙어요.`},{id:`snap`,match:/스냅|DVD|영상/,keys:[`snap`,`dvd`,`video`],name:`본식 촬영`,price:[`참고: 예식장 연계 본식 촬영 전국 76만 · 서울 85만 원`],extras:[[`원본 전달`,`포함인지 확인하세요`],[`작가 추가(2인)`,`추가 비용이 붙는 경우가 많아요`],[`출장비`,`예식장이 멀면 붙을 수 있어요`]],tip:`외부 스냅을 쓰면 예식장에 외부 촬영 허용 여부를 먼저 확인하세요.`},{id:`helper`,match:/헬퍼/,keys:[`helper`],name:`본식 헬퍼`,extras:[[`추가 시간`,`2부·폐백까지 하면 시간 추가금이 붙을 수 있어요`],[`교통비`,`따로 받는 곳이 있어요`]],tip:`공식 통계가 없어요. 스드메 패키지 포함 여부부터 확인하세요.`},{id:`invite`,match:/청첩장/,keys:[`invite`,`mobile-invite`],name:`청첩장`,extras:[[`추가 인쇄`,`모자라서 다시 찍으면 단가가 비싸요`],[`봉투·스티커·식권`,`별도인 경우가 있어요`]],tip:`공식 통계가 없어요. 하객 수보다 10~20% 넉넉히 주문하는 커플이 많아요.`},{id:`hanbok`,match:/한복/,keys:[`hanbok`],name:`한복`,extras:[[`대여 vs 맞춤`,`가격 차이가 커요`],[`소품(노리개·신발 등)`,`별도인 경우가 있어요`]],tip:`공식 통계가 없어요. 2~3곳 견적을 비교해 보세요.`},{id:`suit`,match:/예복|양복|턱시도/,keys:[`suit`],name:`예복`,extras:[[`수선·가봉`,`맞춤이면 가봉 횟수를 확인하세요`],[`셔츠·구두·타이`,`패키지 포함인지 확인하세요`]],tip:`공식 통계가 없어요. 대여·맞춤 중 먼저 정하면 비교가 쉬워요.`},{id:`ring`,match:/웨딩링|반지|예물/,keys:[`ring`],name:`웨딩링·예물`,extras:[[`각인·사이즈 조정`,`무료인지 확인하세요`],[`금 시세`,`시세에 따라 가격이 바뀌어요`]],tip:`공식 통계가 없어요.`},{id:`honeymoon`,match:/신혼여행|항공|숙소/,keys:[`flight`,`stay`,`honeymoon-pick`],name:`신혼여행`,extras:[[`유류할증료`,`항공권에 따로 붙어요`],[`현지 비용`,`리조트세·팁·식비를 따로 잡아 두세요`]],tip:`공식 통계가 없어요.`}],me=[[`스드메`,`스튜디오(웨딩촬영)·드레스·메이크업을 묶은 패키지`],[`드메`,`웨딩촬영을 빼고 드레스·메이크업만 묶은 패키지`],[`대관료`,`예식장 홀을 빌리는 비용. 식대와 따로 받아요`],[`식대`,`하객 1인당 식사 비용. 예식 비용에서 가장 큰 부분이에요`],[`보증인원`,`예식장과 약속한 최소 식사 인원. 덜 와도 이 인원만큼 식대를 내요`],[`기본 장식비`,`꽃·조명 등 예식장 기본 연출 비용`],[`생화 장식`,`조화 대신 생화로 꾸미는 옵션. 추가금이 커요`],[`원본`,`웨딩촬영에서 찍은 사진 파일 전체. 따로 사야 하는 경우가 많아요`],[`수정본`,`보정(포토샵)한 사진. 장수가 정해져 있고 추가는 유료예요`],[`원판`,`본식 날 가족·친구와 찍는 단체 사진`],[`얼리스타트`,`이른 아침에 메이크업·촬영을 시작할 때 붙는 추가금`],[`퍼스트웨어`,`아무도 입지 않은 새 드레스를 처음 입는 옵션`],[`헬퍼`,`본식 날 드레스·소품을 도와주는 분. '이모님'이라고도 해요`],[`피팅비`,`드레스 투어 때 입어 보는 데 받는 비용`],[`셀렉`,`여러 드레스 중 본식·촬영에 입을 드레스를 고르는 날`],[`가봉`,`고른 드레스·예복을 몸에 맞게 수선하는 것`],[`혼주`,`신랑·신부의 부모님`],[`폐백`,`예식 후 신부가 시부모님과 가족께 인사드리는 전통 의식`],[`이바지`,`신부 집에서 신랑 집으로 보내는 음식`],[`가방순이`,`본식 날 신부 가방(축의금 등)을 챙겨 주는 친구`],[`부토니에`,`신랑 가슴에 꽂는 작은 꽃 장식`],[`가계약`,`정식 계약 전 소액으로 날짜·조건을 잡아 두는 것. 환불 조건을 꼭 확인하세요`],[`계약금·잔금`,`계약할 때 일부(계약금)를 내고, 나머지(잔금)는 보통 예식 전후에 내요`],[`위약금`,`계약을 취소·변경할 때 내는 돈. 시기별 비율을 계약서에서 확인하세요`],[`성수기`,`결혼식이 몰리는 3~6월, 9~12월. 비수기보다 비싼 편이에요`],[`답례품`,`하객에게 드리는 감사 선물`]];function he(e){let t=`${e.title||``}`,n=I.find(t=>e.rkey&&t.keys.includes(e.rkey))||I.find(e=>e.match.test(t)),r=`${e.title||``} ${e.note||``} ${n?n.extras.map(e=>e[0]).join(` `):``}`,i=me.filter(([e])=>e.split(`·`).some(e=>r.includes(e)));return n||i.length?{p:n,terms:i}:null}var L=e=>String(e??``).replace(/[&<>"]/g,e=>({"&":`&amp;`,"<":`&lt;`,">":`&gt;`,'"':`&quot;`})[e]);function ge(e){let t=he(e);if(!t)return``;let{p:n,terms:r}=t;return`<details class="gd"><summary><span class="gd-ic">💡</span><b>${n?`${L(n.name)} 알아두기`:`용어 알아두기`}</b><span class="gd-more">펼치기</span></summary>
     ${n?.price?`<div class="gd-sec"><div class="gd-h">보통 가격</div>${n.price.map(e=>`<div class="gd-li num">${L(e)}</div>`).join(``)}</div>`:``}
     ${n?.extras?.length?`<div class="gd-sec"><div class="gd-h">숨은 추가금</div>${n.extras.map(([e,t])=>`<div class="gd-x"><b>${L(e)}</b><span class="num">${L(t)}</span></div>`).join(``)}</div>`:``}
     ${n?.tip?`<div class="gd-tip">${L(n.tip)}</div>`:``}

diff --git a/index.html b/index.html
@@ -14,7 +14,7 @@
 <meta name="apple-mobile-web-app-title" content="아이두웨딩">
 <meta name="apple-mobile-web-app-status-bar-style" content="default">
 <meta name="mobile-web-app-capable" content="yes">
-  <script type="module" crossorigin src="./assets/index-pwa-CDqA0FYN.js"></script>
+  <script type="module" crossorigin src="./assets/index-pwa-9rMMmm5c.js"></script>
   <link rel="stylesheet" crossorigin href="./assets/index-pwa-BbF0TZNT.css">
 </head>
 <body>
